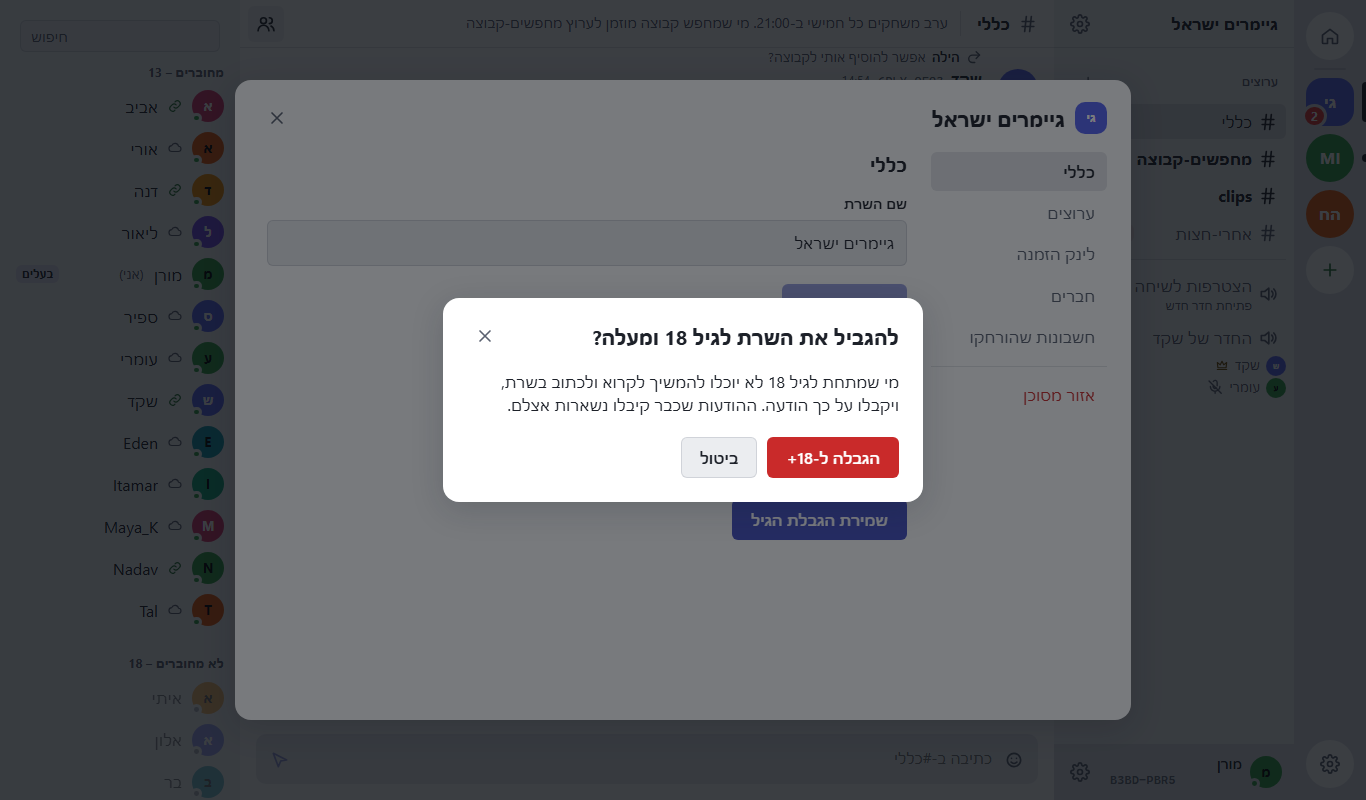
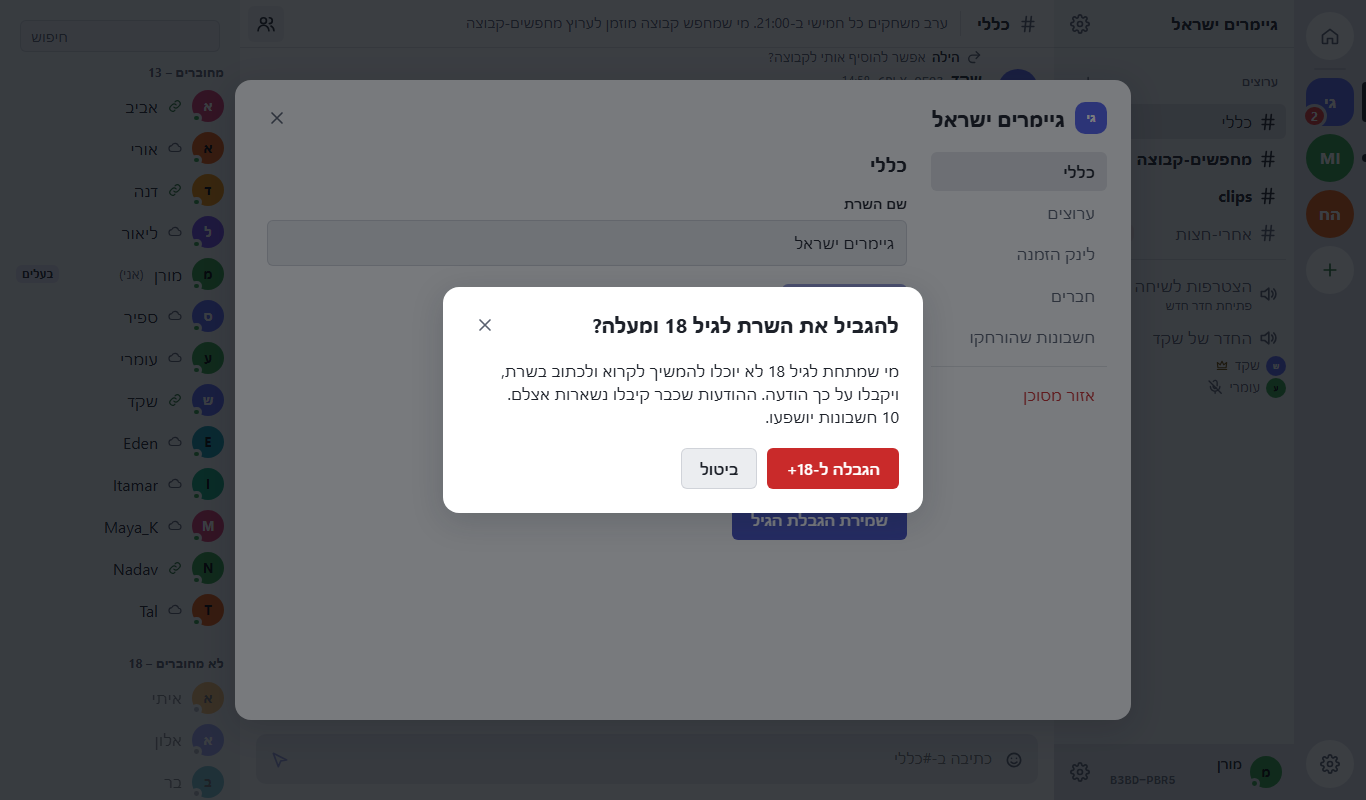
feat(server-settings): the raise dialog names how many lose access; too-young (G-52, core #590)
Follows dev-identity's approved core design (#590):
- countAgeAffected(serverId, ageRestriction) -> { count }: current members
  other than me without an 18+ claim; 0 below 18+; no names; owner and
  admins only. The raise dialog asks it when it opens and shows "# accounts
  are affected." (PO 0.6.0: the confirmation names how many are removed).
- 18+ from an owner under 18 is too-young (not not-allowed), shown with the
  same reason as the disabled option.
- The current value is a no-op in the mock, as in the core.
- CoreCommands, the desktop allow-list, the sanitizer and the mock; 550
  re-shot with the count.

Changed region(s): [[0.3075, 0.3438, 0.6764, 0.6562], [0.4919, 0.5625, 0.5534, 0.5938]]

diff --git a/ui/src/test/ageLimit.test.tsx b/ui/src/test/ageLimit.test.tsx
@@ -62,6 +62,8 @@ describe("G-52: the server's age limit", () => {
     await click(saveButton(dialog));
     const raise = screen.getByRole('dialog', { name: 'Limit this server to 18 and over?' });
     await waitFor(() => expect(document.activeElement).toBe(within(raise).getByRole('button', { name: 'Cancel' })));
+    // PO (0.6.0): it says how many members lose access, from the core's count.
+    expect((await within(raise).findByRole('status')).textContent).toMatch(/^\d+ accounts? (is|are) affected\.$/);
     await click(within(raise).getByRole('button', { name: 'Cancel' }));
     expect(set).not.toHaveBeenCalled();
     expect(radio(dialog, '16 and over').checked).toBe(true);
@@ -104,12 +106,12 @@ describe("G-52: the server's age limit", () => {
     expect(within(dialog).getByText("You can choose 18+ only if you're 18 or older.")).toBeTruthy();
   });
 
-  it('the mock core refuses 18+ from an owner under 18, as the core does', async () => {
+  it('the mock core refuses 18+ from an owner under 18 with too-young, as the core does', async () => {
     const core = new MockCore({ demo: true, speed: 0, simulateActivity: false });
     (core as unknown as { persisted: { identity: { birthDate: string } } }).persisted.identity.birthDate = '2010-06-01';
     const me = (await core.getIdentity())!.id;
     const server = (await core.listServers()).find((s) => s.ownerId === me)!;
-    await expect(core.setAgeRestriction(server.id, '18+')).rejects.toMatchObject({ code: 'not-allowed' });
+    await expect(core.setAgeRestriction(server.id, '18+')).rejects.toMatchObject({ code: 'too-young' });
   });
 
   it('a member on an old version: update-needed, and the limit is unchanged (§6.6)', async () => {
@@ -119,5 +121,20 @@ describe("G-52: the server's age limit", () => {
     await click(saveButton(dialog));
     await waitFor(() => expect(dialog.querySelector('.update-needed, [role="alert"]')).toBeTruthy());
     expect((await core.listServers()).find((s) => s.id === server.id)!.ageRestriction).toBe(before);
+  });
+});
+
+describe('G-52: the affected count (core #590)', () => {
+  it('0 below 18+; a count, without names, for 18+; owner only', async () => {
+    const core = new MockCore({ demo: true, speed: 0, simulateActivity: false });
+    const me = (await core.getIdentity())!.id;
+    const servers = await core.listServers();
+    const own = servers.find((s) => s.ownerId === me)!;
+    const other = servers.find((s) => s.ownerId !== me)!;
+    expect(await core.countAgeAffected(own.id, '16+')).toEqual({ count: 0 });
+    const r = await core.countAgeAffected(own.id, '18+');
+    expect(Object.keys(r)).toEqual(['count']);
+    expect(r.count).toBeGreaterThan(0);
+    await expect(core.countAgeAffected(other.id, '18+')).rejects.toMatchObject({ code: 'not-allowed' });
   });
 });

diff --git a/ui/src/screens/shell/AgeLimit.tsx b/ui/src/screens/shell/AgeLimit.tsx
@@ -14,7 +14,7 @@ import { useAppStore } from '../../app/App';
 import { ageOn } from '../../app/age';
 import { useStore } from '../../app/store';
 import { Dialog } from '../../components/common';
-import { useCore, type AgeRestriction, type ServerSummary } from '../../core';
+import { isCoreError, useCore, type AgeRestriction, type ServerSummary } from '../../core';
 import { failureOf, FailureNote, type Failure } from './ServerLifecycle';
 import './ageLimit.css';
 
@@ -51,12 +51,28 @@ export function AgeLimitSetting({ server }: { server: ServerSummary }) {
     const t = setTimeout(() => cancelRef.current?.focus());
     return () => clearTimeout(t);
   }, [confirm]);
+  // PO (0.6.0): raising names how many members lose access (the core's count; no names).
+  const [affected, setAffected] = useState<number | null>(null);
+  useEffect(() => {
+    if (confirm !== 'raise') return;
+    let live = true;
+    setAffected(null);
+    core.countAgeAffected(server.id, '18+').then(
+      (r) => live && setAffected(r.count),
+      () => {},
+    );
+    return () => {
+      live = false;
+    };
+  }, [confirm, core, server.id]);
+  const [tooYoung, setTooYoung] = useState(false);
   const checkId = useId();
 
   const save = async () => {
     setConfirm(null);
     setBusy(true);
     setFailure(null);
+    setTooYoung(false);
     setSaved(false);
     try {
       await core.setAgeRestriction(server.id, age);
@@ -64,7 +80,8 @@ export function AgeLimitSetting({ server }: { server: ServerSummary }) {
     } catch (e) {
       // A bad request here isn't about a name: the general message.
       const f = failureOf(e);
-      setFailure(f.kind === 'bad-name' ? { kind: 'other' } : f);
+      if (isCoreError(e) && e.code === 'too-young') setTooYoung(true);
+      else setFailure(f.kind === 'bad-name' ? { kind: 'other' } : f);
     } finally {
       setBusy(false);
     }
@@ -124,10 +141,18 @@ export function AgeLimitSetting({ server }: { server: ServerSummary }) {
         )}
       </div>
       <FailureNote server={server} failure={failure} />
+      {tooYoung && (
+        <p className="error small" role="alert">
+          <FormattedMessage id="server.age.ownerMinor" />
+        </p>
+      )}
 
       <Dialog open={confirm === 'raise'} onClose={cancel} title={intl.formatMessage({ id: 'server.age.raise.title' })}>
         <p>
           <FormattedMessage id="server.age.raise.body" />
+        </p>
+        <p role="status" className="age-affected">
+          {affected !== null && <FormattedMessage id="server.age.raise.count" values={{ count: affected }} />}
         </p>
         <div className="actions">
           <button type="button" className="danger" onClick={() => void save()}>

diff --git a/ui/src/core/mock.ts b/ui/src/core/mock.ts
@@ -1233,13 +1233,24 @@ export class MockCore implements CoreApi {
     if (!s) throw err({ code: 'not-found' });
     if (s.summary.ownerId !== this.identity?.id || s.summary.closed) throw err({ code: 'not-allowed' });
     if (!['none', '16+', '18+'].includes(ageRestriction)) throw err({ code: 'bad-request' });
+    // As the core: the current value signs nothing.
+    if (ageRestriction === s.summary.ageRestriction) return s.summary;
     // G-52 (PO, #512): an owner under 18 can't make a server 18+.
-    if (ageRestriction === '18+' && this.ageOf(this.identity!.birthDate) < 18) throw err({ code: 'not-allowed' });
+    if (ageRestriction === '18+' && this.ageOf(this.identity!.birthDate) < 18) throw err({ code: 'too-young' });
     this.lifecycleGate(s);
     await this.wait(150);
     s.summary = { ...s.summary, ageRestriction };
     this.emit('server.updated', s.summary);
     return s.summary;
+  }
+
+  /** G-52: the demo's members without an 18+ claim (every third other member). */
+  async countAgeAffected(serverId: Id, ageRestriction: AgeRestriction): Promise<{ count: number }> {
+    const s = this.servers.get(serverId);
+    if (!s) throw err({ code: 'not-found' });
+    if (s.summary.ownerId !== this.identity?.id) throw err({ code: 'not-allowed' });
+    if (ageRestriction !== '18+') return { count: 0 };
+    return { count: s.members.filter((m) => m.id !== this.identity?.id).filter((_, i) => i % 3 === 0).length };
   }
 
   async leaveServer(serverId: Id): Promise<void> {

diff --git a/ui/src/core/api.ts b/ui/src/core/api.ts
@@ -118,12 +118,19 @@ export interface CoreCommands {
    */
   renameServer(serverId: Id, name: string): Promise<ServerSummary>;
   /**
-   * G-52 (draft contract, until dev-identity's core lands): the owner changes
-   * the server's age limit. Returns the updated summary; then server.updated.
-   * not-allowed for anyone but the owner, and for 18+ from an owner under 18;
-   * update-needed when a member's MVS is too old (nothing changes).
+   * G-52 (core design #590): the owner changes the server's age limit and
+   * the core re-keys the channels at once. Returns the updated summary; then
+   * server.updated. The current value is a no-op. Errors: not-allowed (not
+   * the owner), too-young (18+ from an owner under 18), update-needed
+   * (nothing changes), not-found, bad-request.
    */
   setAgeRestriction(serverId: Id, ageRestriction: AgeRestriction): Promise<ServerSummary>;
+  /**
+   * G-52: how many current members (not me) would lose access at this limit:
+   * those without an 18+ claim; 0 for 'none' and '16+'. No names. Owner and
+   * admins only (not-allowed otherwise). Asked when the raise dialog opens.
+   */
+  countAgeAffected(serverId: Id, ageRestriction: AgeRestriction): Promise<{ count: number }>;
   /** Any member but the owner; never `update-needed`. Then `server.removed { reason: 'left' }`. */
   leaveServer(serverId: Id): Promise<void>;
   /** Owner only, for good. Then `server.closed`; 30 days later `server.removed { reason: 'closed' }`. */

diff --git a/ui/src/core/sanitize.ts b/ui/src/core/sanitize.ts
@@ -717,6 +717,7 @@ export function guardCore(core: CoreApi): CoreApi {
     createServer: wrap(core.createServer, cleanServer),
     renameServer: wrap(core.renameServer, cleanServer),
     setAgeRestriction: wrap(core.setAgeRestriction, cleanServer),
+    countAgeAffected: wrap(core.countAgeAffected, (r) => ({ count: count(r?.count) })),
     getUpdateNeeded: wrap(core.getUpdateNeeded, (l) => (Array.isArray(l) ? l.filter((x): x is string => typeof x === 'string').map(id) : [])),
     createInvite: wrap(core.createInvite, (r) => ({ ...r, id: id(r.id), link: cleanLink(r.link), expiresAt: when(r.expiresAt) })),
     listInvites: wrap(core.listInvites, (l) => l.map(cleanInvite)),

diff --git a/ui/src/core/types.ts b/ui/src/core/types.ts
@@ -173,7 +173,9 @@ export interface CoreError {
     | 'nothing-staged'
     | 'disk-full'
     // Server lifecycle (#261): a member's MVS is too old for rename, leave or close; nothing was signed.
-    | 'update-needed';
+    | 'update-needed'
+    /** G-52 (core #590): 18+ chosen by an owner under 18. */
+    | 'too-young';
   /** With `core-unavailable` (desktop shell, T8-01): why the core is not answering. */
   detail?: CoreDownDetail;
   /** 1-based word positions that were not recognised (restore). */

diff --git a/desktop/src/commands.js b/desktop/src/commands.js
@@ -32,6 +32,7 @@ const COMMANDS = Object.freeze({
   cancelJoin: ['link'],
   renameServer: ['serverId', 'name'],
   setAgeRestriction: ['serverId', 'ageRestriction'],
+  countAgeAffected: ['serverId', 'ageRestriction'],
   leaveServer: ['serverId'],
   closeServer: ['serverId'],
   getUpdateNeeded: ['serverId', 'cap'],
